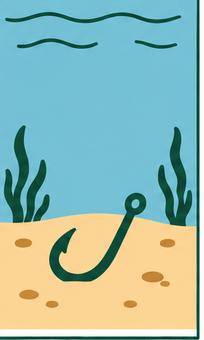
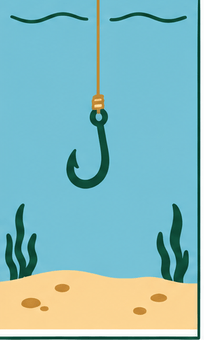
IQRA Kids has a way in, and the hooks are the right way up
The lessons existed but nothing linked to them — HomePage filters to the
adult track, so a draft kids lesson could only be reached by typing its hash.
There is a door at the foot of the home page now, and #/kids behind it,
grouped under Level 1-3 headings. A door, never a mode-choice screen: the app
has always been additive. It appears only when something is behind it.

د/ذ and ر/ز were inverted. The principle was right — د stays up on the line,
ر dips below it — but the prompt described د as "resting on the sand", which
put the low picture on the high letter. The author renamed the files; the
mnemonic text in the sheet now matches, so the words.json agrees with what is
on screen.

make-alphabet.mjs prints the recording plan on every run, grouped by how many
pieces each take is cut into. The intake system asks for that number and
getting it wrong is silent — the take is cut in the wrong places and the clips
are just wrong. 28 takes of three, 2 of two, 67 of one, 2 songs never cut.

The gold stars in ج ح خ stay, by the author's call.

diff --git a/app/src/pages/KidsHomePage.tsx b/app/src/pages/KidsHomePage.tsx
@@ -1,0 +1,89 @@
+import { LESSONS, orderedLessons } from '../lib/lessons';
+import { canSeeLesson, lessonStatus } from '../lib/appConfig';
+import type { AppConfig } from '../lib/appConfig';
+import type { LessonMeta } from '../lib/lessons';
+
+/**
+ * The IQRA Kids menu.
+ *
+ * A door on the home page, never a mode-choice screen: the app has always been
+ * additive, and a splash asking "who are you?" would be the first thing a
+ * learner had to get past. The same lessons live behind both menus — a lesson
+ * carries `tracks`, and nothing here touches an id, a folder, a clip filename
+ * or a calibration key.
+ *
+ * Levels 1–3 are the Maktab's own cohorts, so they are headings rather than
+ * folders: a lesson can belong to more than one, and a child moving up a level
+ * must not change what a lesson is.
+ */
+const LEVELS: { level: 1 | 2 | 3; title: string; blurb: string }[] = [
+  { level: 1, title: 'Level 1', blurb: 'The letters — their names, their sounds, and where each one is made.' },
+  { level: 2, title: 'Level 2', blurb: 'Putting letters together, and the first tajweed rules.' },
+  { level: 3, title: 'Level 3', blurb: 'Reading fluently, ready to begin memorising.' },
+];
+
+function LessonList({ lessons, config }: { lessons: LessonMeta[]; config: AppConfig }) {
+  return (
+    <ul className="lesson-list">
+      {lessons.map((l, i) => {
+        const status = lessonStatus(config, l.id);
+        return (
+          <li key={l.id}>
+            <a className="lesson-card" href={`#/lesson/${l.id}`}>
+              <span className="lesson-no">{i + 1}</span>
+              <span className="lesson-body">
+                <span className="lesson-title">
+                  {l.title}
+                  {status !== 'published' && <span className={`status-pill ${status}`}>{status}</span>}
+                </span>
+                <span className="lesson-ar" dir="rtl" lang="ar">
+                  {l.titleArabic}
+                </span>
+                <span className="lesson-blurb">{l.blurb}</span>
+              </span>
+              <span className="lesson-go" aria-hidden="true">
+                ›
+              </span>
+            </a>
+          </li>
+        );
+      })}
+    </ul>
+  );
+}
+
+export function KidsHomePage({ config, admin }: { config: AppConfig; admin: boolean }) {
+  const lessons = orderedLessons(LESSONS, 'kids').filter((l) => canSeeLesson(config, l.id, admin));
+
+  return (
+    <main className="home">
+      <p className="home-intro">
+        The Arabic letters, from the very beginning. A teacher leads; the app plays, shows and
+        waits.
+      </p>
+
+      {LEVELS.map(({ level, title, blurb }) => {
+        const here = lessons.filter((l) => l.kidsLevel === level);
+        if (here.length === 0) return null;
+        return (
+          <section key={level} className="kids-level">
+            <h3>{title}</h3>
+            <p className="lesson-blurb">{blurb}</p>
+            <LessonList lessons={here} config={config} />
+          </section>
+        );
+      })}
+
+      {/* A kids lesson with no level yet still needs a way in. */}
+      {lessons.some((l) => !l.kidsLevel) && (
+        <section className="kids-level">
+          <h3>Not sorted yet</h3>
+          <LessonList lessons={lessons.filter((l) => !l.kidsLevel)} config={config} />
+        </section>
+      )}
+
+      {lessons.length === 0 && <p className="loading">No kids lessons are published yet.</p>}
+      <p className="build-stamp">Version {__BUILD_ID__}</p>
+    </main>
+  );
+}

diff --git a/app/src/App.tsx b/app/src/App.tsx
@@ -1,5 +1,6 @@
 import { Suspense, lazy, useEffect, useState } from 'react';
 import { HomePage } from './pages/HomePage';
+import { KidsHomePage } from './pages/KidsHomePage';
 import { WordsLesson } from './pages/WordsLesson';
 import { SectionedLesson } from './pages/SectionedLesson';
 import { AdminPage } from './pages/AdminPage';
@@ -46,14 +47,14 @@ function initialRate(): number {
 }
 
 interface Route {
-  page: 'home' | 'lesson' | 'admin' | 'notes' | 'account' | 'classes' | 'recordings' | 'intake';
+  page: 'home' | 'kids' | 'lesson' | 'admin' | 'notes' | 'account' | 'classes' | 'recordings' | 'intake';
   lessonId: number;
 }
 
 function parseRoute(hash: string): Route {
   // "calibrate" is the old name for the admin page; still accepted so an old
   // bookmark or an installed shortcut doesn't dead-end.
-  const m = /^#\/(lesson|admin|calibrate|notes|account|classes|recordings|intake)(?:\/(\d+))?/.exec(hash);
+  const m = /^#\/(kids|lesson|admin|calibrate|notes|account|classes|recordings|intake)(?:\/(\d+))?/.exec(hash);
   if (m) {
     const page = m[1] === 'calibrate' ? 'admin' : (m[1] as Route['page']);
     return { page, lessonId: Number(m[2] ?? 0) };
@@ -209,7 +210,9 @@ export default function App() {
 
       {route.page === 'home' && <HomePage config={config} admin={admin} />}
 
-      {route.page !== 'home' && (
+      {route.page === 'kids' && <KidsHomePage config={config} admin={admin} />}
+
+      {route.page !== 'home' && route.page !== 'kids' && (
         <>
           <nav className="breadcrumb">
             <a href="#/">← All lessons</a>

diff --git a/app/src/index.css b/app/src/index.css
@@ -2445,3 +2445,54 @@ kbd {
     font-size: 40px;
   }
 }
+
+/* ── IQRA Kids ─────────────────────────────────────────────────────────────
+   The door on the home page, and the Level headings behind it. Levels are the
+   Maktab's cohorts, so they are headings over one list rather than separate
+   places — a lesson can sit in more than one, and moving a child up a level
+   must never change what a lesson is. */
+.kids-door {
+  display: flex;
+  align-items: center;
+  gap: 16px;
+  margin-top: 28px;
+  padding: 18px 20px;
+  background: var(--card);
+  border: 1px solid var(--accent);
+  border-radius: 14px;
+  text-decoration: none;
+  color: inherit;
+  transition: transform 0.15s, box-shadow 0.15s;
+}
+
+.kids-door:hover {
+  transform: translateY(-2px);
+  box-shadow: var(--shadow-lift);
+}
+
+.kids-door-body {
+  display: flex;
+  flex-direction: column;
+  gap: 4px;
+  flex: 1;
+}
+
+.kids-door-title {
+  font-weight: 700;
+  font-size: 17px;
+}
+
+.kids-level {
+  margin-top: 26px;
+}
+
+.kids-level h3 {
+  margin: 0 0 2px;
+  font-size: 15px;
+  letter-spacing: 0.02em;
+}
+
+.kids-level .lesson-blurb {
+  display: block;
+  margin-bottom: 10px;
+}

diff --git a/app/src/pages/HomePage.tsx b/app/src/pages/HomePage.tsx
@@ -38,6 +38,23 @@ export function HomePage({ config, admin }: { config: AppConfig; admin: boolean 
         })}
       </ul>
       {lessons.length === 0 && <p className="loading">No lessons are published yet.</p>}
+
+      {/* A door, never a mode-choice screen — the same lessons, a different
+          menu and a different skin. Only shown when there is something behind
+          it, so a learner is never sent to an empty room. */}
+      {orderedLessons(LESSONS, 'kids').some((l) => canSeeLesson(config, l.id, admin)) && (
+        <a className="kids-door" href="#/kids">
+          <span className="kids-door-body">
+            <span className="kids-door-title">IQRA Kids</span>
+            <span className="lesson-blurb">
+              The Arabic letters from the very beginning — for a teacher and a small group.
+            </span>
+          </span>
+          <span className="lesson-go" aria-hidden="true">
+            ›
+          </span>
+        </a>
+      )}
       {/* Which build this device is actually running. An installed app has no
           address bar and no way to tell a stale copy from a current one — the
           author once spent weeks looking at a months-old build. Comparing this

diff --git a/Design/iqra-kids.md b/Design/iqra-kids.md
@@ -311,12 +311,26 @@ Everything below exists and builds. Nothing is recorded yet.
   they are 4 MB of source material and must not ship.
 - **Registered** in `lessons.ts` with `order` 1–5 (song, letters, letters,
   letters, song) and `tracks: ['kids']`, and **draft** in `DEFAULT_CONFIG`.
-- `orderedLessons()` now takes a track; `HomePage` asks for `'adults'`, so the
-  kids lessons do not appear in the adult menu. The `#/kids` menu and the
-  `data-mode="kids"` skin are still to come.
+- **`#/kids`** — the menu, grouped under Level 1–3 headings, reached by a door
+  at the foot of the home page. The door only appears when there is something
+  behind it, so a learner is never sent to an empty room. `orderedLessons()`
+  takes a track; `HomePage` asks for `'adults'`. The `data-mode="kids"` skin is
+  still to come — a kids lesson currently opens in the ordinary lesson page.
 
-Verified in the browser: lesson 20 renders its first card — بَاء · بَ · بُ ·
-بِ · نَبۡ, badged *Lips* — and `/images/kids/ب.png?v=v1` returns 200.
+Verified in the browser: the door leads to `#/kids`, Level 1 lists all five in
+reading order (song · letters · letters · letters · song), lesson 20 renders its
+first card — بَاء · بَ · بُ · بِ · نَبۡ, badged *Lips* — and
+`/images/kids/ب.png?v=v1` returns 200. No console errors.
+
+**The gold stars stay.** The author looked at ج ح خ and decided the night sky
+reads fine; the counting rule stands for anything new, but these are not
+being redrawn.
+
+**د/ذ and ر/ز were the wrong way round** in the first cut and the author
+renamed the files. The principle in §5 was right — د stays up on the line, ر
+dips below it — but the prompt described د as *resting on the sand*, which put
+the low picture on the high letter. The mnemonic text now matches: د ذ are the
+hooks hanging high on the line, ر ز the ones down on the sand.
 
 ### The recording unit is a take, not a form
 
@@ -338,6 +352,18 @@ different column each time:
 
 plus the irregular rows in table 4 one at a time, and the two songs recorded
 straight to `song-names.wav` and `song-sounds.wav`. **99 takes in all.**
+
+`make-alphabet.mjs` prints the whole plan on every run, grouped by how many
+pieces a take is cut into — because the intake system asks for that number and
+getting it wrong is silent: the take is cut in the wrong places and the clips
+are simply wrong. The shape of it:
+
+| pieces | takes | which |
+|---|---|---|
+| **3** | 28 | the bare letters: `ب.wav` … `ي.wav` — each is بَ بُ بِ |
+| **2** | 2 | `نو.wav` (نَوۡ نُو) and `ني.wav` (نَيۡ نِي) — leen, then madd |
+| **1** | 67 | every name (`باء.wav`), every sukoon (`نب.wav`), and the ten words |
+| whole | 2 | the two songs — never cut |
 
 ### The precache, again
 
